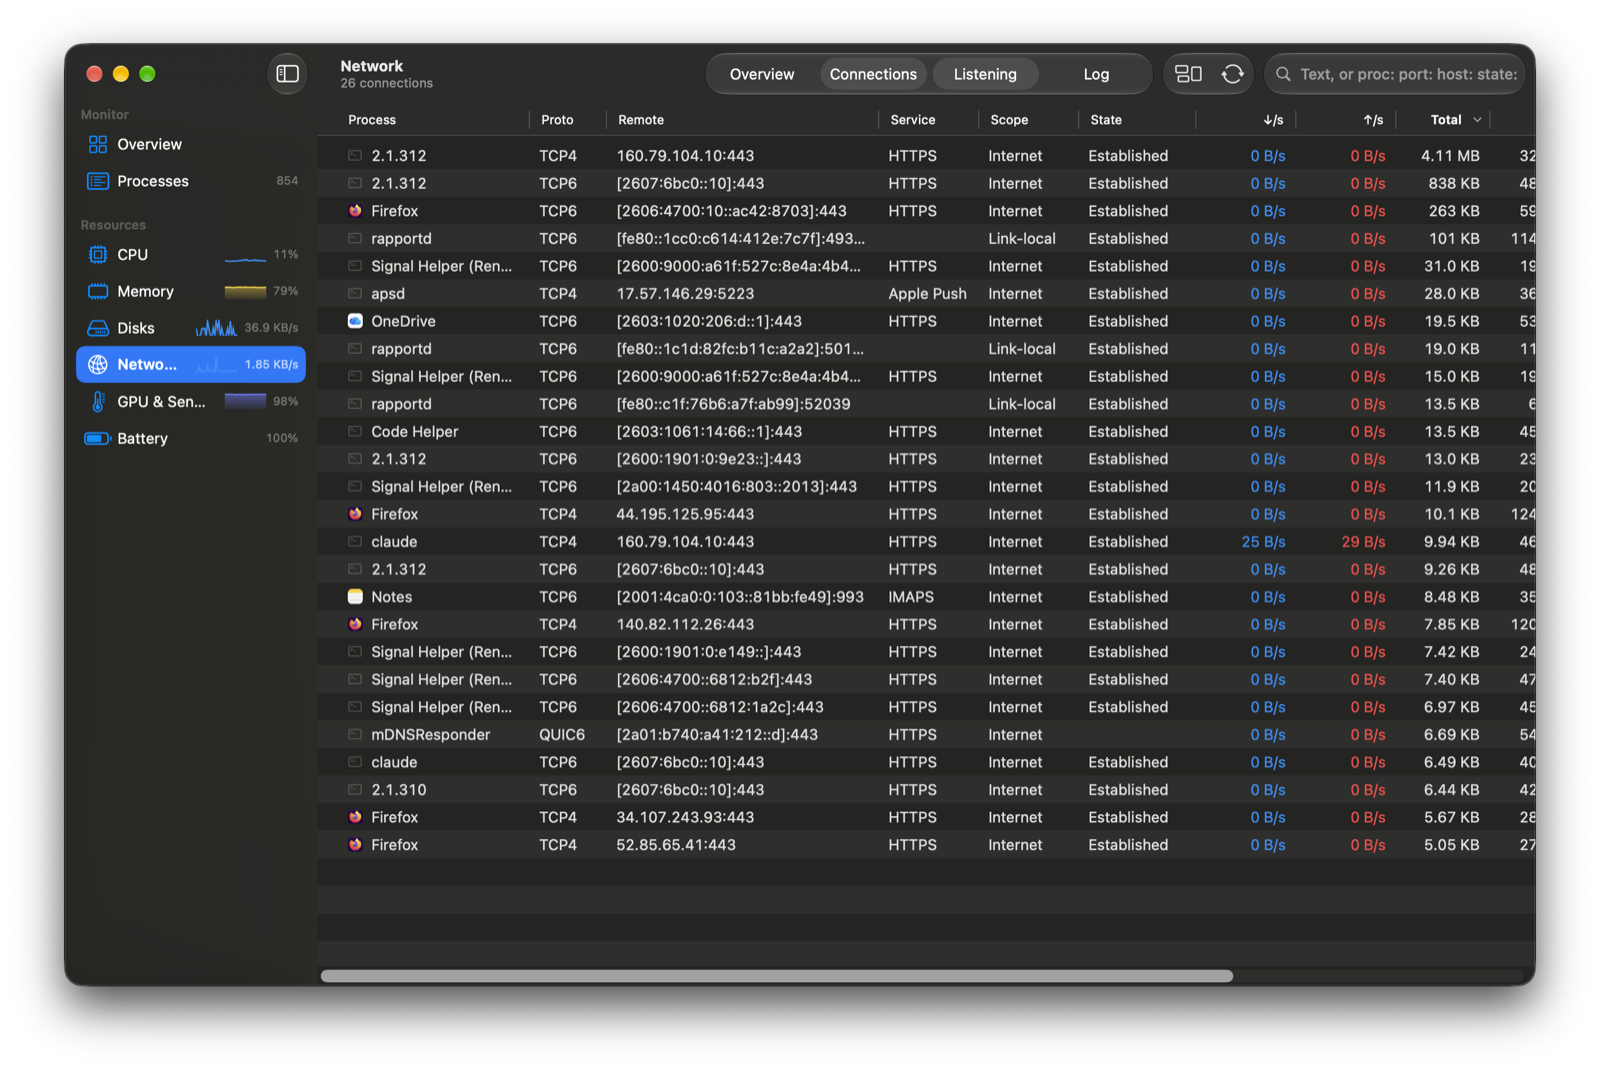
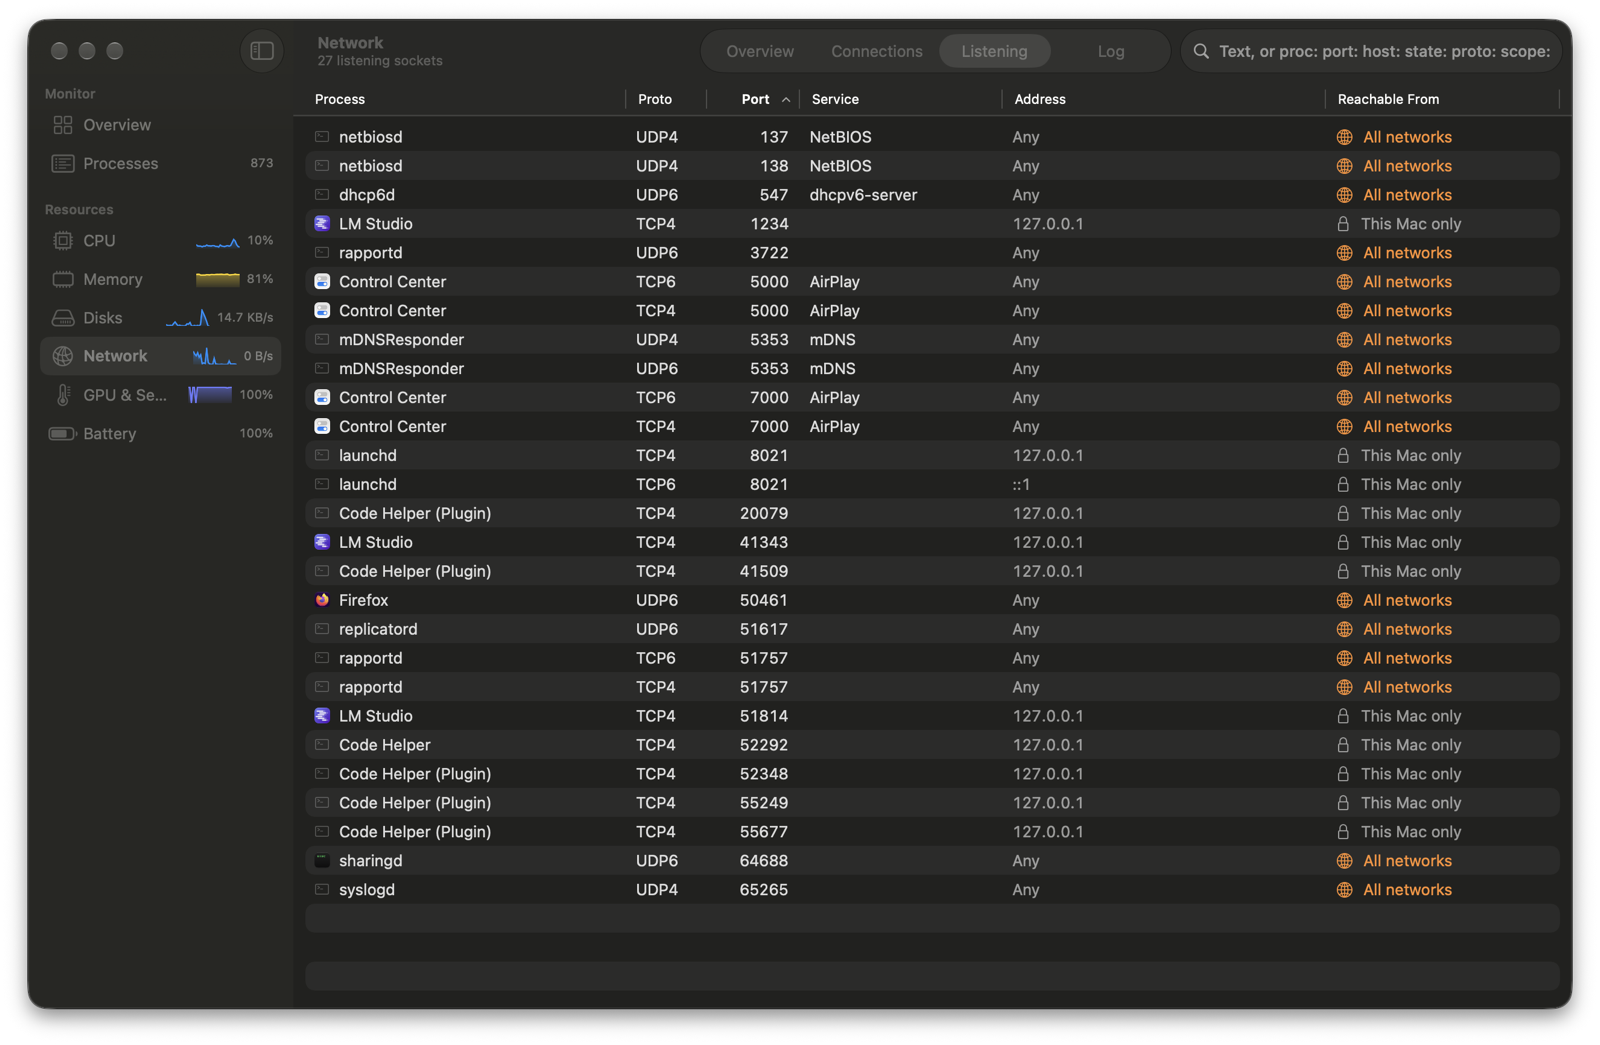
README: user-facing feature list, Network screenshot shows listening apps
The feature list and 0.1.0 changelog entry describe what users get instead of
how it's built.

Changed region(s): [[0.0, 0.0, 1.0, 0.9799], [0.5625, 0.3368, 0.5938, 0.3675], [0.1562, 0.1531, 0.1875, 0.1837]]

diff --git a/README.md b/README.md
@@ -6,8 +6,8 @@
 
 **A native macOS system monitor with btop's depth and Activity Monitor's polish.**
 
-CPU per core (P/E), GPU, memory, network connections, disks, temperatures, fans and battery, plus a fast
-process table with a tree view, signals, renice and an inspector. Built with SwiftUI, AppKit and Liquid Glass.
+See what your Mac is doing at a glance: CPU, GPU, memory, network, disks, temperatures, fans and battery,
+plus a fast process list that lets you find, inspect and stop any app.
 
 [![CI](https://github.com/lukasketzer/BetterActivityMonitor/actions/workflows/ci.yml/badge.svg)](https://github.com/lukasketzer/BetterActivityMonitor/actions/workflows/ci.yml)
 [![Latest release](https://img.shields.io/github/v/release/lukasketzer/BetterActivityMonitor?sort=semver)](https://github.com/lukasketzer/BetterActivityMonitor/releases/latest)
@@ -31,31 +31,27 @@ process table with a tree view, signals, renice and an inspector. Built with Swi
 | | |
 |:---:|:---:|
 | <img src="docs/screenshots/processes.png" alt="Processes"><br>**Processes** | <img src="docs/screenshots/cpu.png" alt="CPU"><br>**CPU** |
-| <img src="docs/screenshots/memory.png" alt="Memory"><br>**Memory** | <img src="docs/screenshots/network.png" alt="Network connections"><br>**Network connections** |
+| <img src="docs/screenshots/memory.png" alt="Memory"><br>**Memory** | <img src="docs/screenshots/network.png" alt="Network: apps listening for connections"><br>**Network: listening apps** |
 
 ## Features
 
-- **Overview**: one dashboard with CPU, GPU, memory, network, disk and sensor cards above a live process list.
-  You choose which cards show.
-- **Processes**: a native `NSTableView` that stays smooth with 1000+ processes.
-  - Sort by any column. Filter as you type, with plain text or regular expressions.
-  - Scopes: all, mine, apps, system, active.
-  - Tree view with collapsible subtrees; a collapsed parent shows its subtree's CPU and memory, like btop.
-  - Send any signal, renice, and open an inspector per process. Asks for admin rights only when the target belongs to another user.
-- **CPU**: total, user and system load, with a graph per core labelled performance or efficiency, plus load
-  averages, top CPU consumers and CPU temperature.
-- **Memory**: app, wired, compressed and cached memory, memory pressure and swap.
-- **Network**: throughput per interface. The **Connections**, **Listening** and **Log** pages show every
-  TCP/UDP/QUIC flow per process, with service names, address scope, RTT and retransmits. Filter them with tokens like
-  `proc:safari port:443 scope:internet`.
-- **Disks**: per-volume usage and read/write throughput.
-- **GPU & Sensors**: GPU renderer, tiler and memory use; SMC temperatures and fan speeds.
-- **Battery**: charge, health, cycle count, power draw and time remaining.
-- **Menu bar**: optional CPU, memory and network readouts in the menu bar.
-- **Looks**: Liquid Glass on macOS 26, plus themes (System, btop, Nord, Dracula, …), graph styles (area, line,
-  bars) and °C/°F.
-- **Light on resources**: sampling is budgeted and benchmarked (see [CONTRIBUTING.md](docs/CONTRIBUTING.md)), so leaving
-  the app open costs little.
+- **Everything on one screen**: the Overview puts CPU, GPU, memory, network, disks and temperatures above a live
+  list of what's running. Pick the cards you want to see.
+- **Find and control any process**: sort by what's using the most, search as you type, or show just your apps.
+  See which process started which in a tree view. Quit, force quit or pause a process, change its priority,
+  or open it for a closer look.
+- **CPU in detail**: overall load, a graph for every core, and the CPU temperature, so you see what's slowing
+  your Mac down.
+- **Memory at a glance**: how much is in use, by what, and whether your Mac is running out.
+- **See who's online**: live download and upload speeds, which apps are connected to where, which apps are
+  waiting for connections, and a log of connections as they come and go.
+- **Disks**: free space on each drive, and how fast data is being read and written.
+- **Temperatures and fans**: CPU, GPU, battery and SSD temperatures, plus fan speeds.
+- **Battery**: charge, health, charge cycles, power use and time remaining.
+- **Menu bar**: optionally keep CPU, memory and network readouts in the menu bar.
+- **Make it yours**: the glassy macOS 26 look, color themes (including btop, Nord and Dracula), several graph
+  styles, and °C or °F.
+- **Light on your Mac**: built to stay cheap to leave open all day.
 
 ## Install
 

diff --git a/docs/CHANGELOG.md b/docs/CHANGELOG.md
@@ -12,12 +12,12 @@ First public release.
 
 ### Added
 
-- Overview dashboard with CPU, GPU, memory, network, disk and sensor cards above a live process list.
-- Process table (NSTableView) with sorting, search (plain or regex), scopes, tree view with collapsible subtrees,
-  signals, renice (asking for admin rights when needed) and an inspector.
-- CPU screen with per-core P/E graphs, load averages and CPU temperature.
-- Memory screen with app / wired / compressed / cached breakdown, pressure and swap.
-- Network screen with per-interface throughput, plus Connections, Listening and Log pages built on `nettop`.
-- Disks, GPU & sensors (SMC temperatures and fans) and battery screens.
-- Menu bar extra with CPU, memory and network readouts.
-- Themes (System, btop, Nord, Dracula, …), graph styles and Liquid Glass on macOS 26.
+- Overview with CPU, GPU, memory, network, disk and temperature cards above a live list of what's running.
+- Process list: sort, search, show just your apps, a tree view, and quit, pause or reprioritize any process.
+- CPU screen with a graph for every core and the CPU temperature.
+- Memory screen showing what uses your memory and whether your Mac is running low.
+- Network screen with download and upload speeds, the connections each app has open, apps waiting for
+  connections, and a connection log.
+- Disks, temperatures and fans, and battery screens.
+- Optional CPU, memory and network readouts in the menu bar.
+- The glassy macOS 26 look, color themes and several graph styles.
